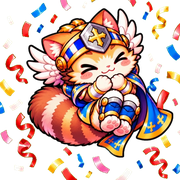
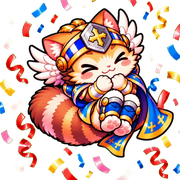
Congrats: hold the open pose still after the burst
Claude-Session: https://claude.ai/code/session_01CqN5TM8CtnKZx6KMXb1z93

diff --git a/line-stickers/animated-emoji/08-congrats/make_congrats.py b/line-stickers/animated-emoji/08-congrats/make_congrats.py
@@ -1,6 +1,7 @@
 """Congrats emoji: curled up hugging his chest (held still), then BURSTS open cheering with confetti.
 Kling 3.0 start/end frames. The curl (1-33) has jittery feet and the burst (35-36) is a blurry smear,
-so the curl is one held frame and the burst cuts straight to the open pose. 2 s loop x 2.
+so the curl is one held frame and the burst cuts straight to the open pose, which is then held still
+(no arm waving). 2 s loop x 2.
 Crop is set around Max (largest blob) so the confetti runs off the edges instead of shrinking him."""
 import sys, os
 import numpy as np
@@ -8,10 +9,9 @@ from PIL import Image
 from scipy import ndimage as ndi
 SRC, OUT = sys.argv[1], sys.argv[2]            # folder of green-removed video frames (NNN.png), output folder
 W, LOOP_MS = 540, 2000                          # working canvas (3x of 180), one loop
-CURL, SETTLE, BACK = 19, 71, 34                 # still curl, still end of the cheer, curl-back frame
-OPEN = [37, 38] + [round(39 + (SETTLE - 1 - 39) * k / 10) for k in range(11)]
-SEQ = [CURL] + OPEN + [SETTLE, BACK]
-durs = [420] + [60, 60] + [88] * 11 + [300, 180]
+CURL, HOLD, BACK = 19, 41, 34                   # still curl, held open pose (sharp, arms up), curl-back frame
+SEQ = [CURL, 37, 38, 39, HOLD, BACK]
+durs = [560, 60, 60, 60, 1080, 180]
 durs[0] += LOOP_MS - sum(durs)
 PAD = 8
 
